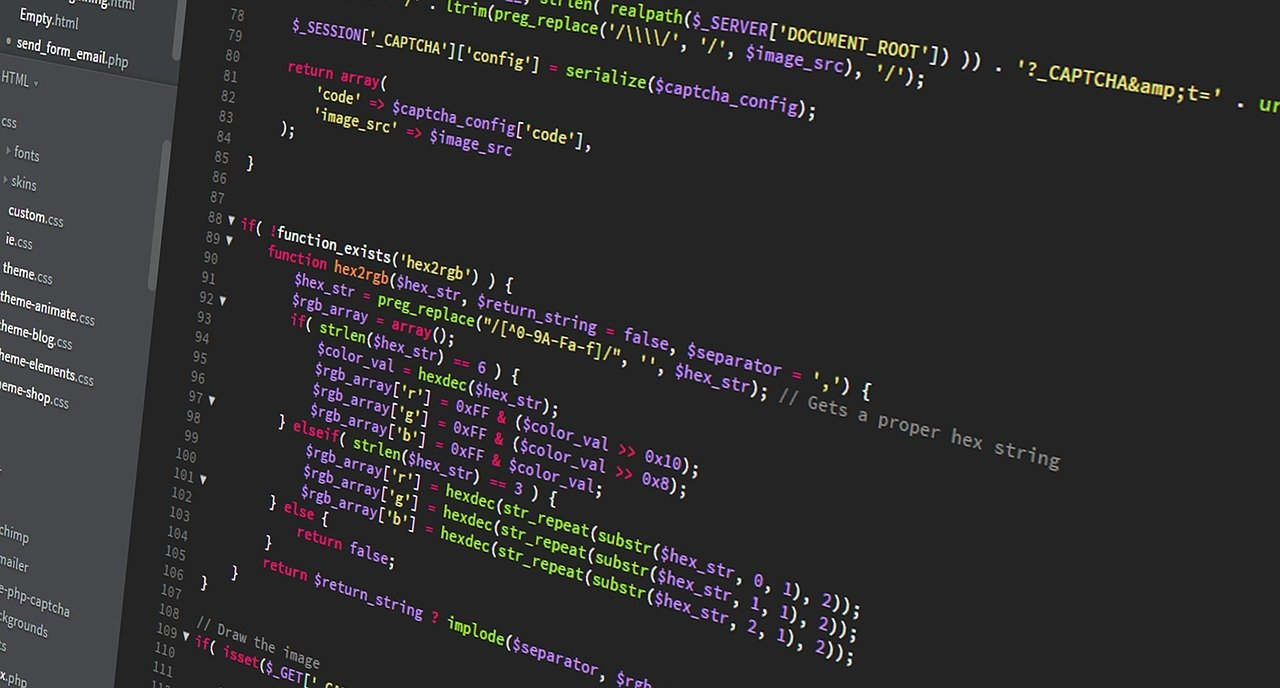
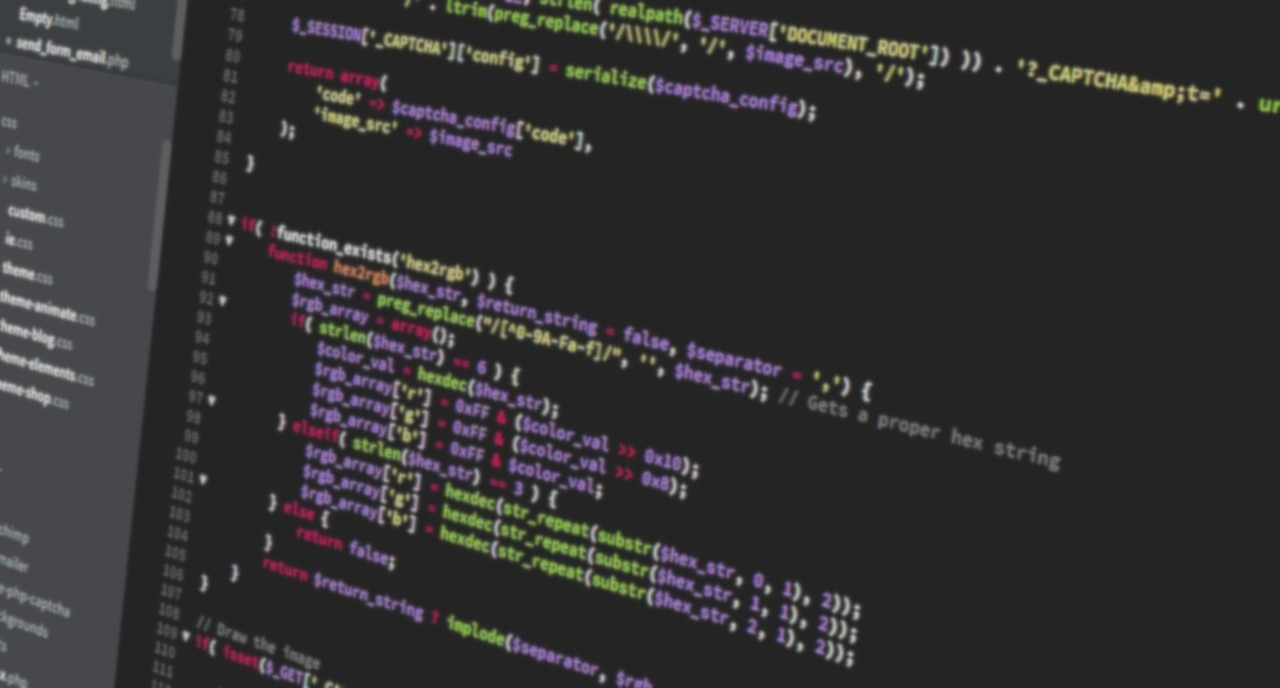
Removed blur from container one, added blur to container two

diff --git a/src/app/core/container-two/container-two.component.scss b/src/app/core/container-two/container-two.component.scss
@@ -1,7 +1,6 @@
 .wrapper {
   background: url("../../../assets/pictures/background-2.jpg") no-repeat top fixed;
   background-size: cover;
-  //filter: blur(2px) brightness(80%);
   display: flex;
   align-items: center;
   justify-content: center;
@@ -17,6 +16,8 @@
 
 .description {
   margin-bottom: 50px;
+  background-color: #00000069;
+  padding: 15px;
 }
 
 h1 {
@@ -37,7 +38,7 @@ h2 {
 }
 
 .technologies-list li {
-  background-color: #8888886e;
+  background-color: #00000069;
   margin: 5px;
   padding: 7px
 }

diff --git a/src/app/core/container-one/container-one.component.scss b/src/app/core/container-one/container-one.component.scss
@@ -3,7 +3,7 @@ header {
 }
 .background {
   background: url("../../../assets/pictures/background-1.jpg") no-repeat center top;
-  filter: blur(2px) brightness(90%);
+  filter: brightness(90%);
   height: 100%;
   background-size: cover;
 }
